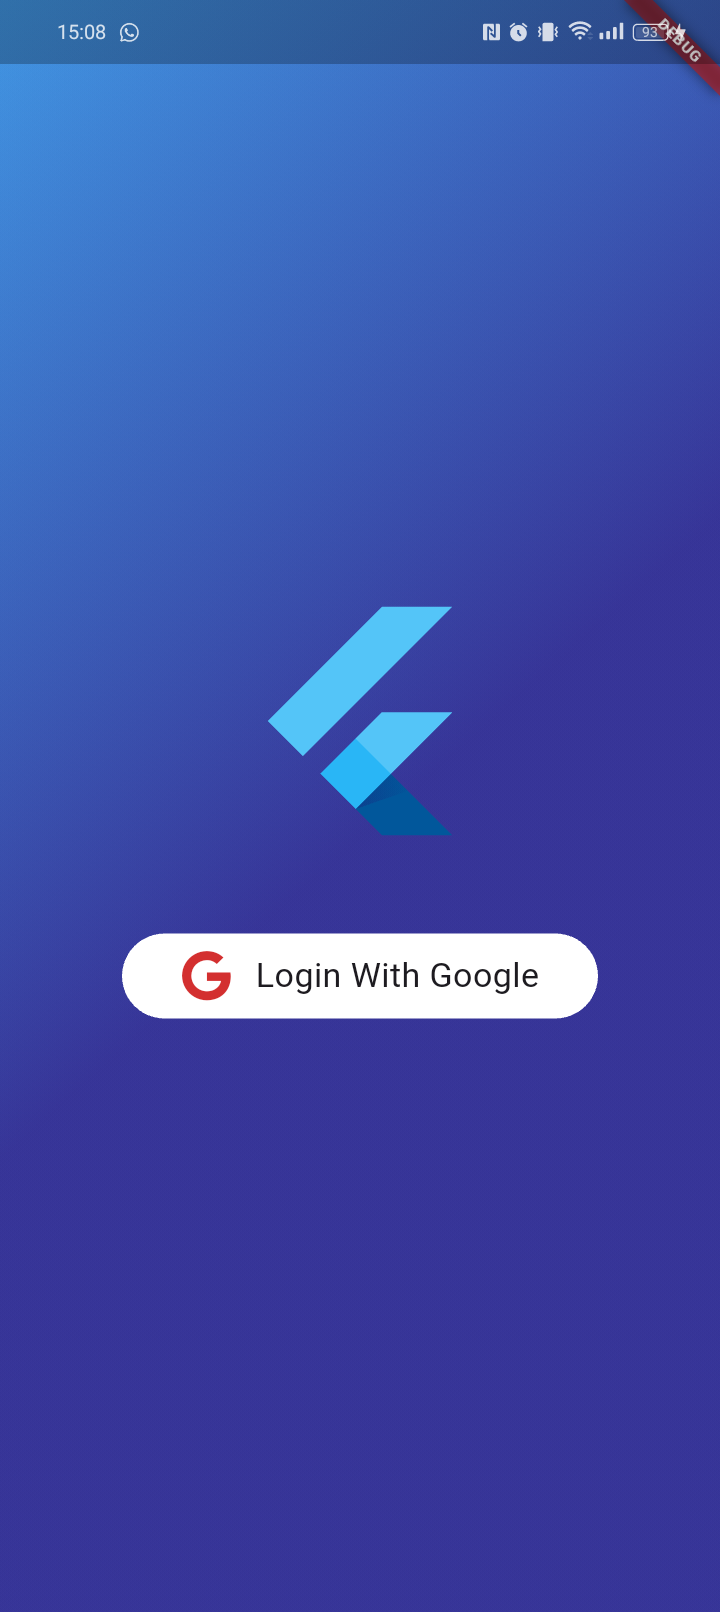
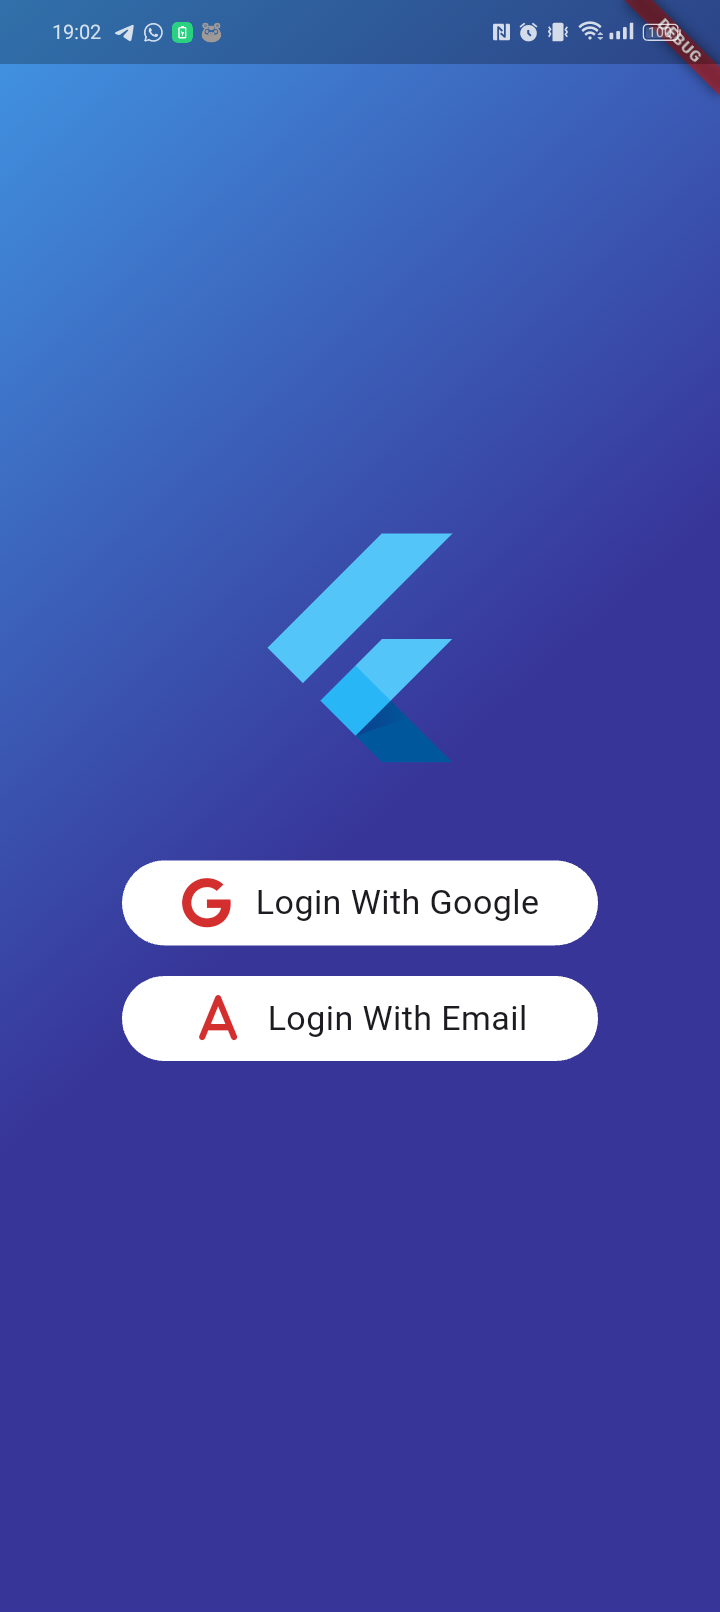
Authentication: add form for OAuth0 authentication

Changed region(s): [[0.1528, 0.3102, 0.825, 0.6824], [0.6722, 0.0, 0.9472, 0.031], [0.0917, 0.0, 0.3056, 0.031]]

diff --git a/lib/pages/login.dart b/lib/pages/login.dart
@@ -15,6 +15,7 @@ class LoginPage extends StatefulWidget {
 
 class _LoginPageState extends State<LoginPage> {
   bool _isLoading = false;
+  bool _isGoogleAuth = false;
   final HashMap<String, bool> _loginStatus = HashMap.from({
     'Access OK': false,
     'Access KO': false
@@ -22,7 +23,7 @@ class _LoginPageState extends State<LoginPage> {
   final OauthService _oauthService = OauthService();
   final DataController _fileController = DataController();
 
-  Future<void> _loginAuth() async {
+  Future<void> _loginAuthGoogle() async {
     setState(() {
       _isLoading = true;
     });
@@ -30,10 +31,32 @@ class _LoginPageState extends State<LoginPage> {
     final response = await _oauthService.googleSignIn();
 
     if(response != null) {
+      _isGoogleAuth = true;
       final data = await _fileController.readJsonFile();
       print('Session: ${data['session']}');
       print('User: ${data['user']}');
-      print('User metadata: ${data['user-metadata']}');
+      setState(() {
+        _loginStatus['Access OK'] = true;
+        _isLoading = false;
+      });
+    }else{
+      setState(() {
+        _loginStatus['Access KO'] = true;
+        _isLoading = false;
+      });
+    }
+  }
+
+  Future<void> _loginAuthEmail() async{
+    setState(() {
+      _isLoading = true;
+    });
+    final response = await _oauthService.emailLogin();
+
+    if(response != null) {
+      final data = await _fileController.readJsonFile();
+      print('Session: ${data['session']}');
+      print('User: ${data['user']}');
       setState(() {
         _loginStatus['Access OK'] = true;
         _isLoading = false;
@@ -65,7 +88,7 @@ class _LoginPageState extends State<LoginPage> {
       WidgetsBinding.instance.addPostFrameCallback((_) {
         Navigator.pushReplacement(
           context,
-          MaterialPageRoute(builder: (context) => LogoutPage()),
+          MaterialPageRoute(builder: (context) => LogoutPage(isGoogleAuth: true)),
         );
       });
     }
@@ -119,7 +142,7 @@ class _LoginPageState extends State<LoginPage> {
                 ),
                 GestureDetector(
                   onTap: () async {
-                    _loginAuth();
+                    _loginAuthGoogle();
                   },
                   child: Container(
                     height: 50,
@@ -149,6 +172,41 @@ class _LoginPageState extends State<LoginPage> {
                     ),
                   ),
                 ),
+                Padding(
+                  padding: EdgeInsets.all(18.0),
+                  child: GestureDetector(
+                    onTap: () async {
+                      _loginAuthEmail();
+                    },
+                    child: Container(
+                      height: 50,
+                      width: 280,
+                      decoration: BoxDecoration(
+                        color: Colors.white,
+                        borderRadius: BorderRadius.circular(100),
+                      ),
+                      child: Row(
+                        mainAxisAlignment: MainAxisAlignment.center,
+                        children: [
+                          Icon(
+                            FontAwesomeIcons.a,
+                            size: 30,
+                            color: Colors.red[700],
+                          ),
+                          const SizedBox(
+                            width: 14,
+                          ),
+                          const Text(
+                            'Login With Email',
+                            style: TextStyle(
+                              fontSize: 20,
+                            ),
+                          ),
+                        ],
+                      ),
+                    ),
+                  ),
+                )
               ],
         ) : Column(
           mainAxisAlignment: MainAxisAlignment.center,

diff --git a/lib/services/oauth_service.dart b/lib/services/oauth_service.dart
@@ -5,15 +5,17 @@ import 'package:events_app/controllers/data_controller.dart';
 import 'package:flutter_dotenv/flutter_dotenv.dart';
 import 'package:google_sign_in/google_sign_in.dart';
 import 'package:supabase_flutter/supabase_flutter.dart';
+import 'package:auth0_flutter/auth0_flutter.dart';
 
 class OauthService {
-  final String webClientId = dotenv.env['GOOGLE_CLIENT_ID']!;
+  final String _webClientId = dotenv.env['GOOGLE_CLIENT_ID']!;
+  final Auth0 _auth0 = Auth0(dotenv.env['AUTH0_DOMAIN']!, dotenv.env['AUTH0_CLIENT_ID']!);
   final ClientController _clientController = ClientController();
   final DataController _fileController = DataController();
 
   Future<AuthResponse?> googleSignIn() async {
     try {
-      final GoogleSignIn googleSignIn = GoogleSignIn(serverClientId: webClientId);
+      final GoogleSignIn googleSignIn = GoogleSignIn(serverClientId: _webClientId);
       final googleUser = await googleSignIn.signIn();
 
       if (googleUser == null) {
@@ -40,8 +42,7 @@ class OauthService {
       final user = await _clientController.user;
       final jsonData = {
         'session': _applyLengthLimit(response.session?.toJson() ?? {}),
-        'user': response.user?.toJson() ?? {},
-        'user-metadata': user?.userMetadata ?? {}
+        'user': response.user?.toJson() ?? {}
       };
       final jsonString = convert.jsonEncode(jsonData);
       _fileController.writeJsonFile(jsonString);
@@ -49,6 +50,24 @@ class OauthService {
       return response;
     } catch (e) {
       print('Error during Google Sign-In: $e');
+      return null;
+    }
+  }
+
+  Future<Credentials?> emailLogin() async {
+    try {
+      final credentials = await _auth0.webAuthentication().login();
+
+      final jsonData = {
+        'session': credentials ?? {},
+        'user': credentials.user ?? {}
+      };
+      final jsonString = convert.jsonEncode(jsonData);
+      _fileController.writeJsonFile(jsonString);
+
+      return credentials;
+    } catch (e) {
+      print('Error during login: $e');
       return null;
     }
   }
@@ -75,6 +94,16 @@ class OauthService {
         return false;
       }
     } catch (e) {
+      print('Error during logout: $e');
+      return false;
+    }
+  }
+
+  Future<bool> emailLogout() async {
+    try{
+      await _auth0.webAuthentication().logout();
+      return true;
+    }catch(e) {
       print('Error during logout: $e');
       return false;
     }

diff --git a/lib/pages/logout.dart b/lib/pages/logout.dart
@@ -8,7 +8,8 @@ import '../controllers/client_controller.dart';
 
 
 class LogoutPage extends StatefulWidget {
-  const LogoutPage({super.key});
+  final bool isGoogleAuth;
+  const LogoutPage({super.key, required this.isGoogleAuth});
   @override
   State<LogoutPage> createState() => _LogoutPageState();
 }
@@ -25,21 +26,25 @@ class _LogoutPageState extends State<LogoutPage> {
   String? _fullName;
   String? _email;
 
-  Future<void> _logoutAuth() async {
+  Future<void> _logoutAuth(bool isGoogleAuth) async {
     setState(() {
       _isLoading = true;
     });
 
-    final response = await _oauthService.googleLogout();
-
-    if(response) {
+    final bool response;
+    if(isGoogleAuth) {
+      response = await _oauthService.googleLogout();
+    }else{
+      response = await _oauthService.emailLogout();
+    }
+    if (response) {
       setState(() {
         _fullName = null;
         _email = null;
         _logoutStatus['Dis access OK'] = true;
         _isLoading = false;
       });
-    }else{
+    } else {
       setState(() {
         _logoutStatus['Dis access KO'] = true;
         _isLoading = false;
@@ -60,14 +65,18 @@ class _LogoutPageState extends State<LogoutPage> {
     });
   }
 
-  Future<void> _getUserInfo() async{
+  Future<void> _getUserInfo(bool isGoogleAuth) async{
     if(!_isLoading) {
       setState(() {
         _isLoading = true;
       });
     }
-    _fullName ??= await _clientController.userFullName;
-    _email ??= await _clientController.userEmail;
+    if(isGoogleAuth) {
+      _fullName ??= await _clientController.userFullName;
+      _email ??= await _clientController.userEmail;
+    }else{
+
+    }
     setState(() {
       _isLoading = false;
     });
@@ -76,7 +85,7 @@ class _LogoutPageState extends State<LogoutPage> {
   @override
   Widget build(BuildContext context) {
     if(_isLoading && !_isReloading){
-      _getUserInfo();
+      _getUserInfo(widget.isGoogleAuth);
     }
     if (!_isLoading && _logoutStatus['Dis access OK']!) {
       WidgetsBinding.instance.addPostFrameCallback((_) {
@@ -188,7 +197,7 @@ class _LogoutPageState extends State<LogoutPage> {
             ),
             GestureDetector(
               onTap: () {
-                _logoutAuth();
+                _logoutAuth(widget.isGoogleAuth);
               },
               child: Container(
                 height: 50,
